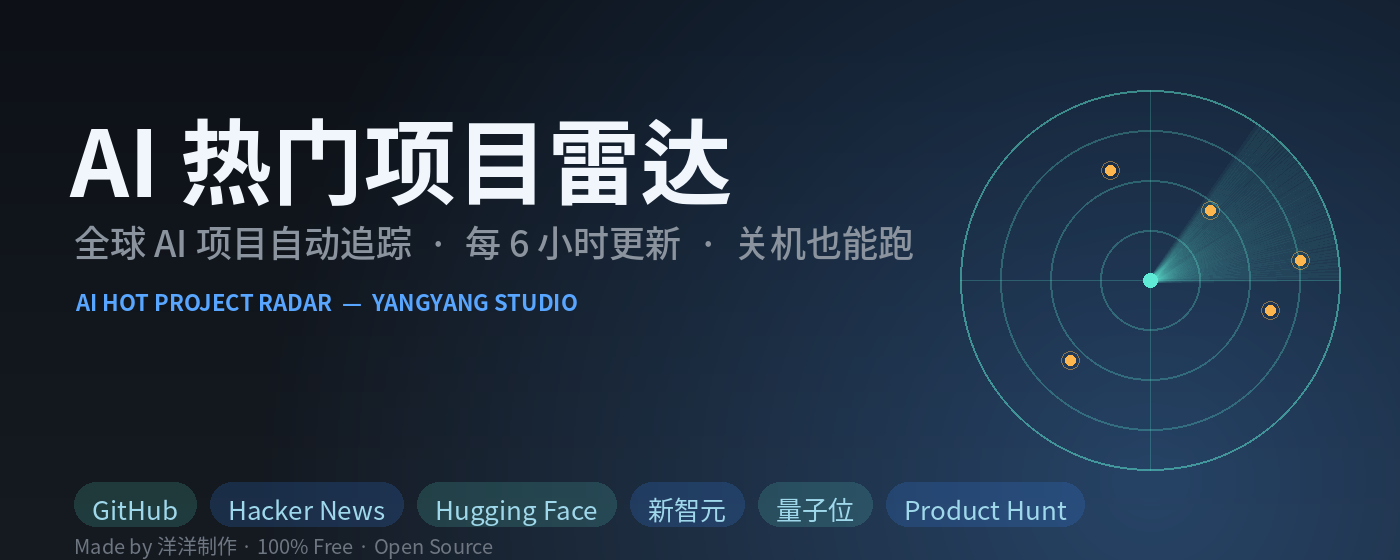
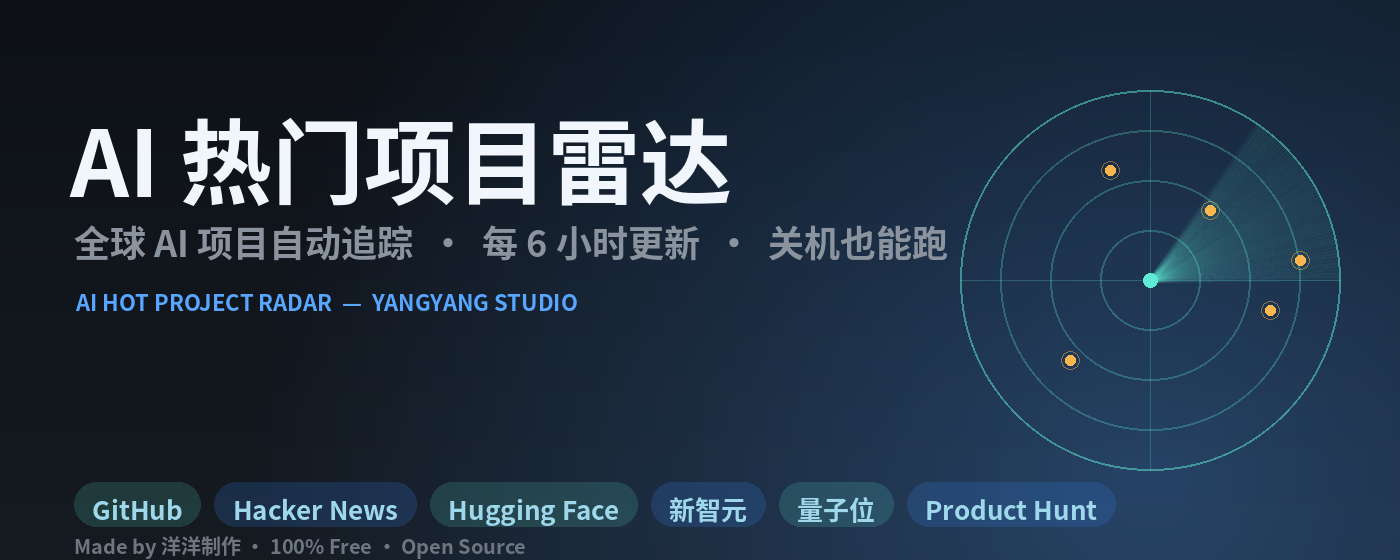
fix: banner门字修正为简体字形 + README新增自动抓取中文翻译展示图

diff --git a/README.md b/README.md
@@ -48,14 +48,22 @@
 
 顶部实时统计各分类项目数（当前已累积 **700+ 条**），支持搜索、分类筛选、来源筛选、热度排序，云端连接状态一目了然。
 
-### 项目卡片 —— 精选与自动抓取混合展示
+### 精选项目 —— 人工精挑 + 详细中文介绍
 
 <p align="center">
-  <img src="docs/screenshots/cards.png" width="85%" alt="卡片列表预览">
+  <img src="docs/screenshots/cards.png" width="85%" alt="精选项目卡片预览">
 </p>
 
-- ⭐ **精选**：人工精挑细选的 32 个重磅项目，带详细中文介绍
-- **自动抓取**：定时从各信源抓取的热门项目，简介已自动翻译成中文
+⭐ **精选 32 个重磅项目**：AI 换装 / AI 视频 / AI 电商设计 / AI 新模型 / Agent 工具全覆盖，每个项目带详细中文介绍、热度评分、直达链接，点"展开详情"看完整分析。
+
+### 自动抓取 —— NEW 徽章 + 免费中文翻译
+
+<p align="center">
+  <img src="docs/screenshots/auto.png" width="85%" alt="自动抓取项目预览">
+</p>
+
+📌 **自动抓取项目**：每 6 小时从全球信源自动收录，**NEW 徽章**标注本周新增，英文简介已**自动翻译成中文**（如 "Small Models Have Arrived" → "小型号已经到货"），看不懂英文也能快速了解项目。
+
 - 🔥 热度评分、NEW 本周新增标识、来源直达链接、一键展开详情
 
 ---
